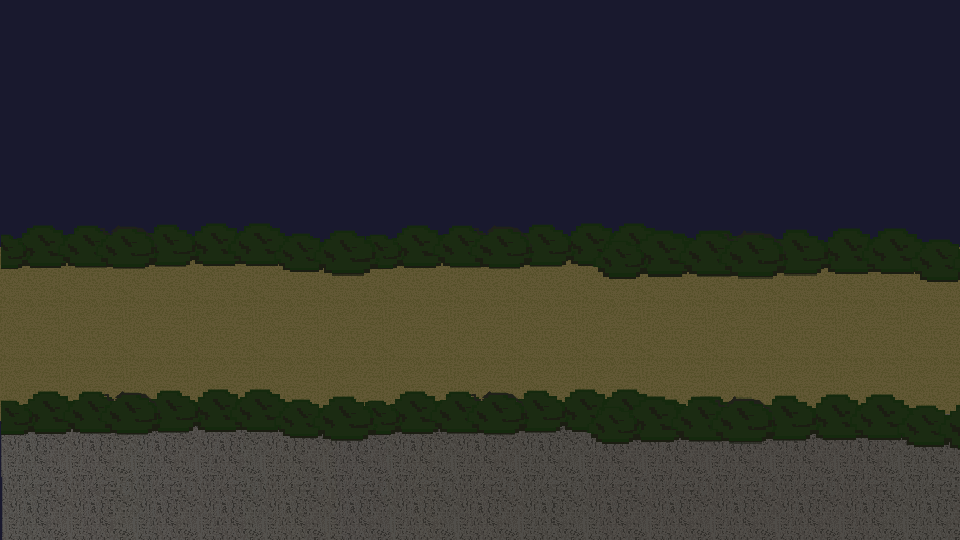
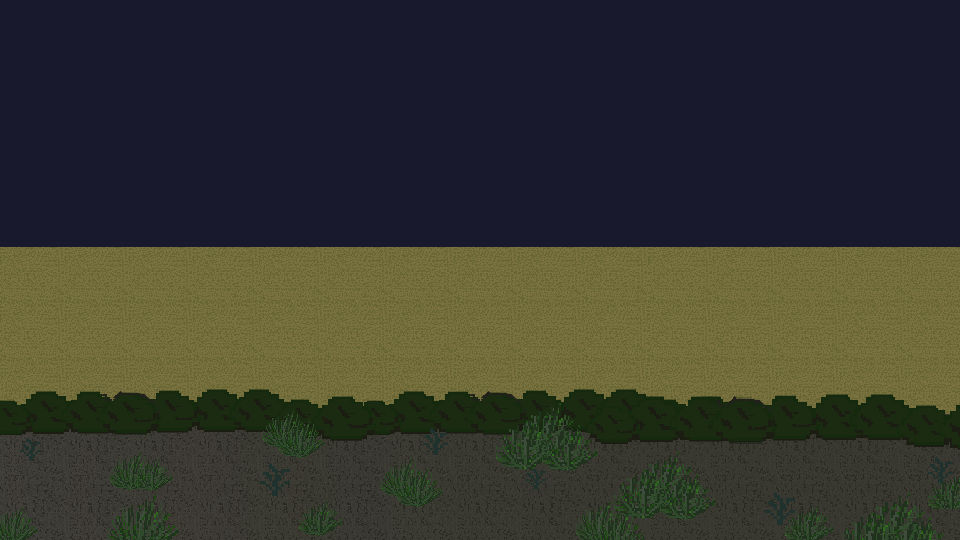
新增物件

Changed region(s): [[0.0, 0.4148, 1.0, 0.7704], [0.0, 0.7704, 1.0, 1.0]]

diff --git a/the_painted_girl.py b/the_painted_girl.py
@@ -115,6 +115,9 @@ for i in range(3):
 
 #物件
 car_img = import_img("car", True, 2.5)
+lamp_1_img = import_img("lamp", True, 1)
+lamp_2_img = import_img("lamp_", True, 1)
+grass_img = import_img("grass", True, 1)
 
 #背景
 area_background_imgs = {}
@@ -243,6 +246,11 @@ def scrolling_background(first_load = False):
     if background_location_x > 0 and Areas.lock_left == False and current_coord_x < 500:
         draw_img(screen, background_backward_img, background_location_x - 900, 0)
 
+#傳送
+def teleport(coord_x, coord_y = None):
+    Player_location.coord_x = coord_x
+    if coord_y != None:
+        player.rect.y = coord_y
 player_name = "Player"
 
 class Player(pygame.sprite.Sprite):
@@ -254,7 +262,7 @@ class Player(pygame.sprite.Sprite):
         self.rect.x = 0
         self.rect.y = GROUND - 180
         self.facing = 1
-        self.speed = 2
+        self.speed = 1
         self.jump_time = 0
         self.jump_height = 0
         self.fall_speed = 1
@@ -266,7 +274,7 @@ class Player(pygame.sprite.Sprite):
         if self.moving_tick % 15 == 0:
             self.image_frame += 1
             if self.image_frame > 3:
-                self.image_frame = 1
+                self.image_frame = 2
         self.image = pygame.transform.flip(player_imgs[self.image_frame], self.facing == -1, False)
         key_pressed = pygame.key.get_pressed()
         #移動
@@ -390,10 +398,6 @@ while running:
     scrolling_background(first_time_load_scrolling_background)
     first_time_load_scrolling_background = False
 
-    # 在這裡畫角色、NPC 等遊戲內容
-    all_sprites.update()
-    all_sprites.draw(screen)
-
     # 取得輸入
     for event in pygame.event.get():
         if event.type == pygame.QUIT:
@@ -416,12 +420,23 @@ while running:
         if Areas.lock_left:draw_color_text(screen, "邊界:左邊", 20, 50, 420, BLACK)
         if Areas.lock_right:draw_color_text(screen, "邊界:右邊", 20, 50, 450, BLACK)
 
+    summon_npc(300, 50, {}, "", lamp_1_img, "WHITE")
+    summon_npc(600, 50, {}, "", lamp_1_img, "WHITE")
+    summon_npc(900, 50, {}, "", lamp_1_img, "WHITE")
+    summon_npc(0, 220, {}, "", grass_img)
+    summon_npc(960, 220, {}, "", grass_img)
+    summon_npc(500, 250, {}, "", car_img)
+    # 在這裡畫角色、NPC 等遊戲內容
+    all_sprites.update()
+    all_sprites.draw(screen)
+    dark_overlay = pygame.Surface(screen.get_size(), pygame.SRCALPHA)  # 建立具透明通道的Surface
+    dark_overlay.fill((0, 0, 0, 128))  # RGB(0,0,0)，透明度128（約為50%不透明）
+    screen.blit(dark_overlay, (0, 0))
+
     if Areas.area == 1:
         Areas.lock_left = True
-        draw_img(screen, car_img, 300, 300)
     if Areas.area == 3:
         Areas.lock_right = True
-    
 
     pygame.display.flip()
 
